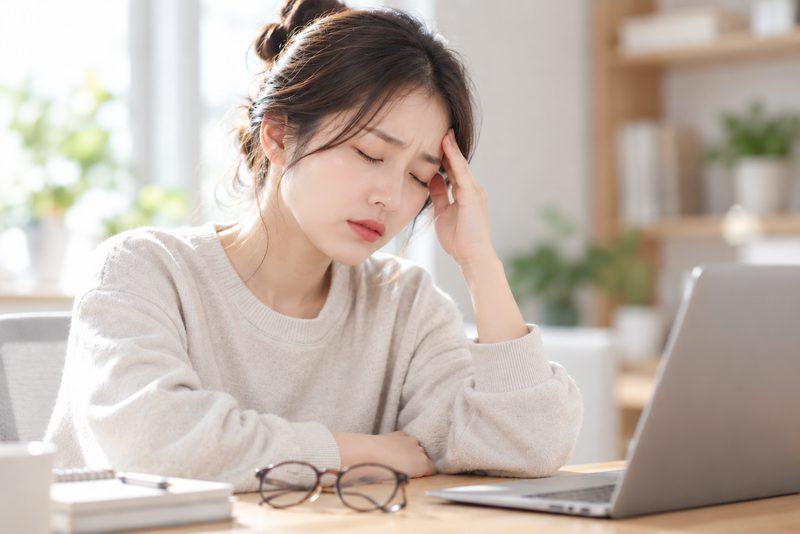
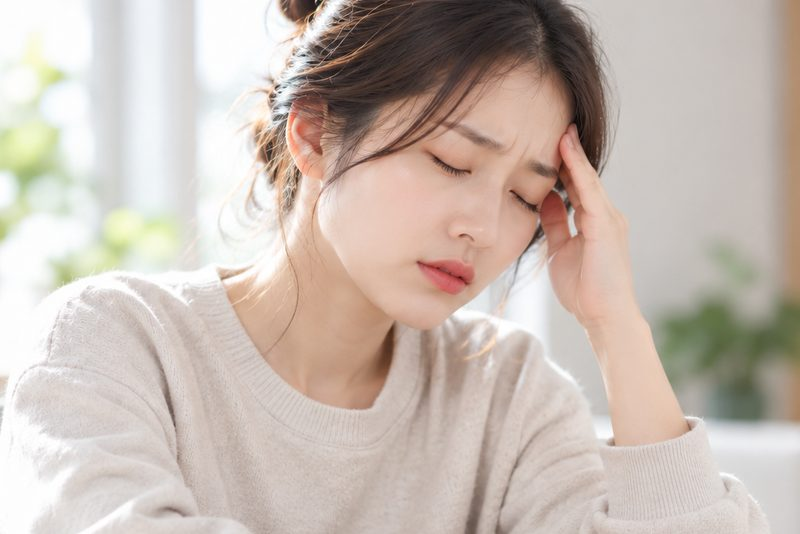
6

diff --git a/learn/index.html b/learn/index.html
@@ -63,7 +63,7 @@
     .structure-fig figcaption { text-align: center; color: var(--text-light); font-size: 0.9rem; margin-top: 12px; }
 
     /* ---- 증상 카드 (사진형) ---- */
-    .symptom-grid { display: grid; grid-template-columns: repeat(3, 1fr); gap: 22px; }
+    .symptom-grid { display: grid; grid-template-columns: repeat(4, 1fr); gap: 18px; }
     .symptom-card {
       background: #fff; border: 1px solid var(--border); border-radius: var(--radius);
       overflow: hidden; display: flex; flex-direction: column;
@@ -73,11 +73,11 @@
     .symptom-card .card-photo { aspect-ratio: 3 / 2; overflow: hidden; }
     .symptom-card .card-photo img { width: 100%; height: 100%; object-fit: cover; transition: transform 0.4s ease; }
     .symptom-card:hover .card-photo img { transform: scale(1.04); }
-    .symptom-card .card-body { padding: 18px 20px 20px; display: flex; flex-direction: column; gap: 7px; flex: 1; }
-    .symptom-card .cat { font-size: 0.78rem; font-weight: 800; color: var(--accent); letter-spacing: 0.04em; }
-    .symptom-card h3 { font-size: 1.08rem; font-weight: 800; line-height: 1.4; }
-    .symptom-card p { font-size: 0.89rem; color: var(--text-light); flex: 1; }
-    .symptom-card .go { font-size: 0.86rem; font-weight: 700; color: var(--primary); }
+    .symptom-card .card-label {
+      padding: 13px 8px; text-align: center;
+      font-weight: 800; font-size: 1.02rem; color: var(--text);
+    }
+    .symptom-card:hover .card-label { color: var(--primary); }
 
     .learn-cta { text-align: center; background: var(--primary-light); border-radius: var(--radius); padding: 40px 24px; }
     .learn-cta p { margin-bottom: 18px; color: var(--text); }
@@ -92,7 +92,8 @@
       .motion-stage { max-width: 420px; margin: 0 auto; width: 100%; }
     }
     @media (max-width: 480px) {
-      .symptom-grid { grid-template-columns: 1fr; }
+      .symptom-grid { grid-template-columns: repeat(2, 1fr); gap: 12px; }
+      .symptom-card .card-label { font-size: 0.92rem; padding: 10px 6px; }
     }
   </style>
 </head>
@@ -171,89 +172,49 @@
   <!-- ===== 증상에서 찾아보기 ===== -->
   <section class="learn-section">
     <div class="container">
-      <h2>증상에서 찾아보기</h2>
-      <p class="sec-sub">지금 불편한 증상을 고르면 해당 설명으로 이동합니다.</p>
+      <h2>턱관절 연관 증상</h2>
+      <p class="sec-sub">증상을 누르면 설명으로 이동합니다.</p>
 
       <div class="symptom-grid">
 
         <a class="symptom-card" href="ear.html">
           <div class="card-photo"><img src="img/cards/card-ear.jpg" alt="귀 앞을 짚고 있는 여성" loading="lazy" /></div>
-          <div class="card-body">
-            <span class="cat">귀 증상</span>
-            <h3>귀가 먹먹하고 이명이 들려요</h3>
-            <p>귀 검사는 정상인데 먹먹함과 '삐—' 소리가 계속될 때, 귀 바로 앞의 턱관절을 살펴봅니다.</p>
-            <span class="go">자세히 보기 →</span>
-          </div>
+          <div class="card-label">이명 · 귀 먹먹함</div>
         </a>
 
         <a class="symptom-card" href="headache.html">
-          <div class="card-photo"><img src="img/cards/card-headache.jpg" alt="책상 앞에서 관자놀이를 짚은 여성" loading="lazy" /></div>
-          <div class="card-body">
-            <span class="cat">두통 · 얼굴 통증</span>
-            <h3>두통이 자주 있어요</h3>
-            <p>관자놀이가 지끈거리는 두통이 반복된다면, 씹는 근육이 보내는 통증일 수 있습니다.</p>
-            <span class="go">자세히 보기 →</span>
-          </div>
+          <div class="card-photo"><img src="img/cards/card-headache.jpg" alt="관자놀이를 짚은 여성" loading="lazy" /></div>
+          <div class="card-label">두통</div>
         </a>
 
         <a class="symptom-card" href="sound.html">
-          <div class="card-photo"><img src="img/cards/card-sound.jpg" alt="턱에 손을 대고 걱정하는 여성" loading="lazy" /></div>
-          <div class="card-body">
-            <span class="cat">턱 소리 · 걸림</span>
-            <h3>턱에서 딱딱 소리가 나요</h3>
-            <p>입을 벌리거나 다물 때 딱딱, 사각 소리가 난다면 디스크의 움직임을 확인해 봅니다.</p>
-            <span class="go">자세히 보기 →</span>
-          </div>
+          <div class="card-photo"><img src="img/cards/card-sound.jpg" alt="턱에 손을 댄 여성" loading="lazy" /></div>
+          <div class="card-label">턱 소리</div>
         </a>
 
         <a class="symptom-card" href="lock.html">
           <div class="card-photo"><img src="img/cards/card-lock.jpg" alt="턱에 붕대를 감은 남성" loading="lazy" /></div>
-          <div class="card-body">
-            <span class="cat">응급</span>
-            <h3>턱이 빠지거나 입이 안 벌어져요</h3>
-            <p>갑자기 입이 안 다물어지거나 안 벌어질 때, 당장 해야 할 일과 하면 안 되는 일이 있습니다.</p>
-            <span class="go">자세히 보기 →</span>
-          </div>
+          <div class="card-label">개구 제한 · 턱 빠짐</div>
         </a>
 
         <a class="symptom-card" href="morning.html">
-          <div class="card-photo"><img src="img/cards/card-morning.jpg" alt="아침 침대에서 턱을 짚은 여성의 뒷모습" loading="lazy" /></div>
-          <div class="card-body">
-            <span class="cat">이갈이 · 수면</span>
-            <h3>아침에 일어나면 턱이 뻐근해요</h3>
-            <p>자는 동안의 이갈이와 이 악물기는 체중만큼의 힘으로 턱을 누릅니다.</p>
-            <span class="go">자세히 보기 →</span>
-          </div>
+          <div class="card-photo"><img src="img/cards/card-morning.jpg" alt="아침 침대에서 턱을 짚은 여성" loading="lazy" /></div>
+          <div class="card-label">이갈이 · 아침 턱 통증</div>
         </a>
 
         <a class="symptom-card" href="neck.html">
           <div class="card-photo"><img src="img/cards/card-neck.jpg" alt="목덜미를 잡고 있는 사람" loading="lazy" /></div>
-          <div class="card-body">
-            <span class="cat">목 · 어깨</span>
-            <h3>목과 어깨까지 결려요</h3>
-            <p>턱과 목의 근육은 한 팀으로 움직입니다. 목·어깨 결림이 턱에서 시작되기도 합니다.</p>
-            <span class="go">자세히 보기 →</span>
-          </div>
+          <div class="card-label">목 · 어깨 결림</div>
         </a>
 
         <a class="symptom-card" href="asymmetry.html">
           <div class="card-photo"><img src="img/cards/card-asym.jpg" alt="거울로 얼굴을 살펴보는 여성" loading="lazy" /></div>
-          <div class="card-body">
-            <span class="cat">얼굴 모양</span>
-            <h3>얼굴이 점점 틀어지는 것 같아요</h3>
-            <p>안면비대칭이 신경 쓰인다면 턱의 움직임과 맞물림부터 확인해 봅니다.</p>
-            <span class="go">자세히 보기 →</span>
-          </div>
+          <div class="card-label">안면비대칭</div>
         </a>
 
         <a class="symptom-card" href="chronic.html">
-          <div class="card-photo"><img src="img/cards/card-chronic.jpg" alt="치과 진료실에서 엑스레이 화면을 보는 환자" loading="lazy" /></div>
-          <div class="card-body">
-            <span class="cat">만성 통증</span>
-            <h3>검사는 정상인데 계속 아파요</h3>
-            <p>사진에는 이상이 없다는데 통증이 이어진다면, 예민해진 신경을 함께 봐야 합니다.</p>
-            <span class="go">자세히 보기 →</span>
-          </div>
+          <div class="card-photo"><img src="img/cards/card-chronic.jpg" alt="치과 진료실의 환자" loading="lazy" /></div>
+          <div class="card-label">만성 통증</div>
         </a>
 
       </div>

diff --git a/learn/sound.html b/learn/sound.html
@@ -136,7 +136,7 @@
   <section class="sym-hero">
     <div class="container">
       <p class="crumb"><a href="index.html">턱관절 알아보기</a> › 턱 소리</p>
-      <h1>턱에서 딱딱 소리가 나요</h1>
+      <h1>턱에서 나는 소리</h1>
       <p>통증 없이 소리만 난다면 대부분 급히 치료할 필요는 없습니다. 중요한 것은 소리와 함께 나타나는 다른 증상입니다.</p>
     </div>
   </section>

diff --git a/learn/morning.html b/learn/morning.html
@@ -119,7 +119,7 @@
   <section class="sym-hero">
     <div class="container">
       <p class="crumb"><a href="index.html">턱관절 알아보기</a> › 이갈이 · 수면</p>
-      <h1>아침에 일어나면 턱이 뻐근해요</h1>
+      <h1>이갈이 · 아침 턱 통증</h1>
       <p>밤새 이를 꽉 물고 잔 것처럼 턱이 피곤하다면, 수면 중 이갈이·이 악물기의 단서일 수 있습니다.</p>
     </div>
   </section>

diff --git a/learn/chronic.html b/learn/chronic.html
@@ -119,7 +119,7 @@
   <section class="sym-hero">
     <div class="container">
       <p class="crumb"><a href="index.html">턱관절 알아보기</a> › 만성 통증</p>
-      <h1>검사는 괜찮다는데 계속 아파요</h1>
+      <h1>만성 턱 통증</h1>
       <p>사진 검사는 뼈와 디스크의 모양을 보여줍니다. 그런데 통증은 그 자리에 깔린 신경이 보내는 신호입니다.</p>
     </div>
   </section>

diff --git a/learn/ear.html b/learn/ear.html
@@ -112,7 +112,7 @@
   <section class="sym-hero">
     <div class="container">
       <p class="crumb"><a href="index.html">턱관절 알아보기</a> › 귀 증상</p>
-      <h1>귀가 먹먹하고 이명이 들려요</h1>
+      <h1>귀 먹먹함 · 이명</h1>
       <p>귀 검사는 정상이라는데 먹먹함과 '삐—' 소리가 계속된다면, 귀 바로 앞의 턱관절을 살펴볼 차례입니다.</p>
     </div>
   </section>

diff --git a/learn/neck.html b/learn/neck.html
@@ -119,7 +119,7 @@
   <section class="sym-hero">
     <div class="container">
       <p class="crumb"><a href="index.html">턱관절 알아보기</a> › 목 · 어깨</p>
-      <h1>목과 어깨까지 결려요</h1>
+      <h1>목 · 어깨 결림과 턱관절</h1>
       <p>마사지를 받아도 며칠이면 돌아오는 결림이라면, 목만 보지 말고 턱을 함께 살펴볼 필요가 있습니다.</p>
     </div>
   </section>

diff --git a/learn/lock.html b/learn/lock.html
@@ -119,7 +119,7 @@
   <section class="sym-hero">
     <div class="container">
       <p class="crumb"><a href="index.html">턱관절 알아보기</a> › 응급</p>
-      <h1>턱이 빠지거나 입이 안 벌어져요</h1>
+      <h1>개구 제한 · 턱 빠짐</h1>
       <p>모습은 반대지만 대처의 원칙은 같습니다. 억지로 움직이지 말고, 빨리 진료를 받는 것입니다.</p>
     </div>
   </section>

diff --git a/learn/asymmetry.html b/learn/asymmetry.html
@@ -119,7 +119,7 @@
   <section class="sym-hero">
     <div class="container">
       <p class="crumb"><a href="index.html">턱관절 알아보기</a> › 얼굴 모양</p>
-      <h1>얼굴이 점점 틀어지는 것 같아요</h1>
+      <h1>안면비대칭과 턱 위치</h1>
       <p>얼굴 아래쪽의 비대칭은 아래턱이 틀어진 자리에서 맞물려 생기는 경우가 많습니다.</p>
     </div>
   </section>

diff --git a/learn/headache.html b/learn/headache.html
@@ -119,7 +119,7 @@
   <section class="sym-hero">
     <div class="container">
       <p class="crumb"><a href="index.html">턱관절 알아보기</a> › 두통</p>
-      <h1>두통이 자주 있어요</h1>
+      <h1>두통과 턱관절</h1>
       <p>두통약을 먹어도 그때뿐이고 검사는 정상이라면, 머리 옆면을 덮고 있는 씹는 근육을 살펴볼 차례입니다.</p>
     </div>
   </section>
